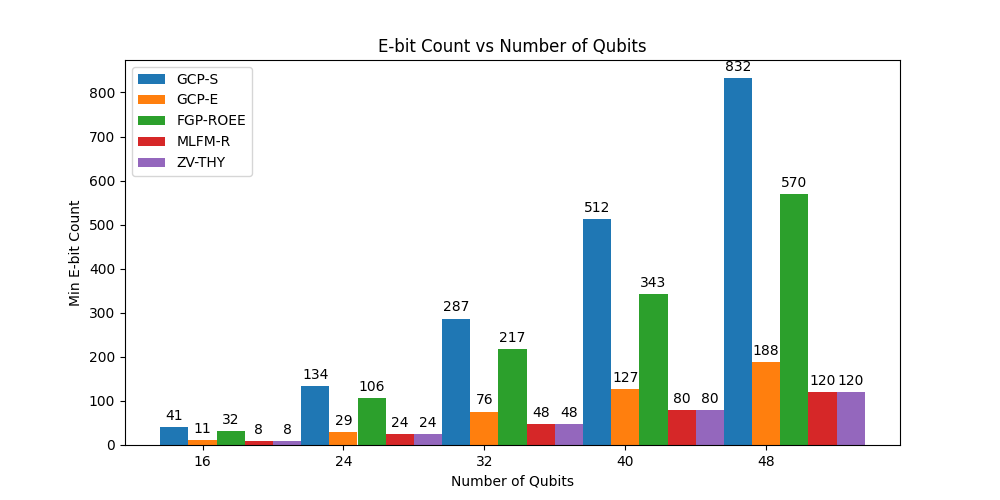
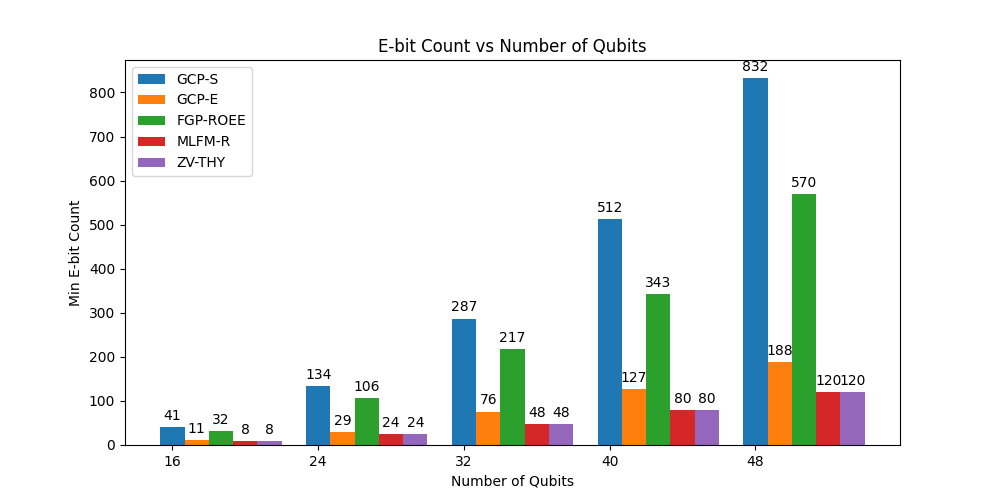
Improved bar chart clarity

diff --git a/plot_results_data.py b/plot_results_data.py
@@ -36,36 +36,38 @@ def plot_results():
     x = np.arange(len(qubit_counts))
 
     # Plot e-bit count vs num_qubits
-    width = 1 / len(qubit_counts)  # the width of the bars
-    multiplier = 0
+    width = 1 / (len(qubit_counts)+1)  # the width of the bars
     plt.figure(figsize=(10, 5))
-    for method, e_bit_count in e_bit_counts.items():
-        offset = width * multiplier
+    for i, (method, e_bit_count) in enumerate(e_bit_counts.items()):
+        offset = width * i
         rects = plt.bar(x + offset, e_bit_count, width, label=method)
         plt.bar_label(rects, padding=3)
-        multiplier +=1
     plt.xlabel("Number of Qubits")
     plt.ylabel("Min E-bit Count")
     plt.title("E-bit Count vs Number of Qubits")
-    plt.xticks(x + width, qubit_counts)
+    plt.xticks(x, qubit_counts)
     plt.legend(loc='upper left', ncols=len(method_names))
     plt.legend()
     plt.savefig("bar_chart_e_bit_count_vs_num_qubits.png")
     
     # Plot time vs num_qubits
-    width = 1 / len(qubit_counts)  # the width of the bars
-    multiplier = 0
+    width = 1 / (len(qubit_counts)+1)  # the width of the bars
     plt.figure(figsize=(10, 5))
-    for method, time in times.items():
-        offset = width * multiplier
-        # time_strs = [f"{time_:.8f}" for time_ in time] #TODO rename
+    def formatter(f: float):
+        if f == 0:
+            return "0"
+        elif f < 1:
+            return "~0"
+        else:
+            return str(int(f))
+    for i, (method, time) in enumerate(times.items()):
+        offset = width * i
         rects = plt.bar(x + offset, time, width, label=method)
-        plt.bar_label(rects, padding=3)
-        multiplier +=1
+        plt.bar_label(rects, fmt=formatter, padding=3)
     plt.xlabel("Number of Qubits")
     plt.ylabel("Time (seconds)")
     plt.title("Time vs Number of Qubits")
-    plt.xticks(x + width, qubit_counts)
+    plt.xticks(x, qubit_counts)
     plt.legend(loc='upper left', ncols=len(method_names))
     plt.legend()
     plt.savefig("bar_chart_time_vs_num_qubits.png")
